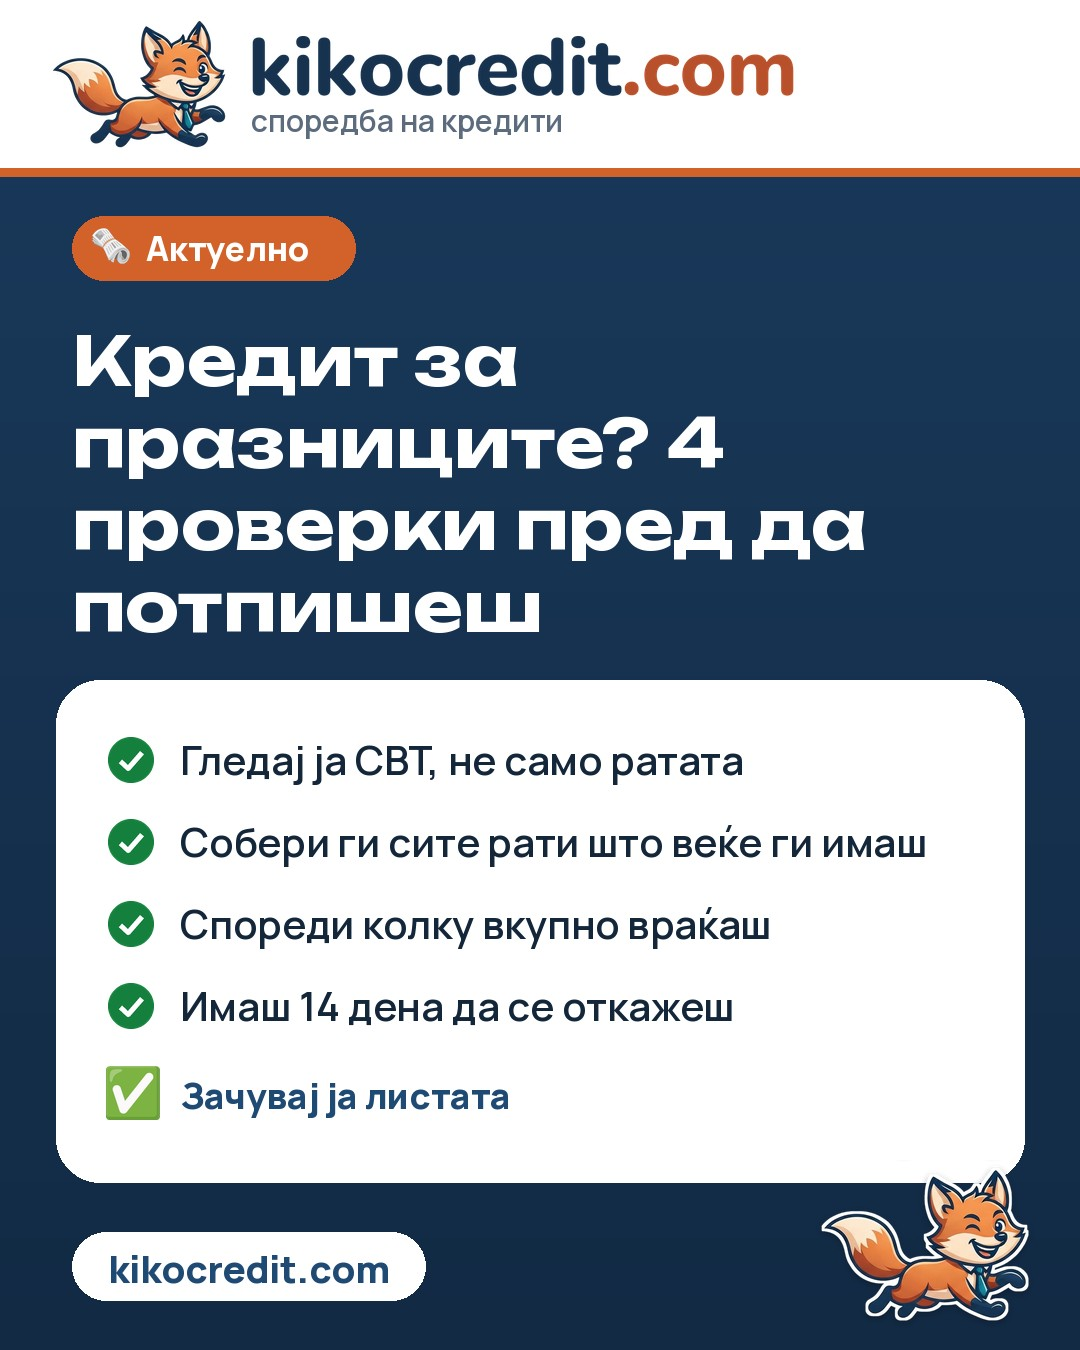
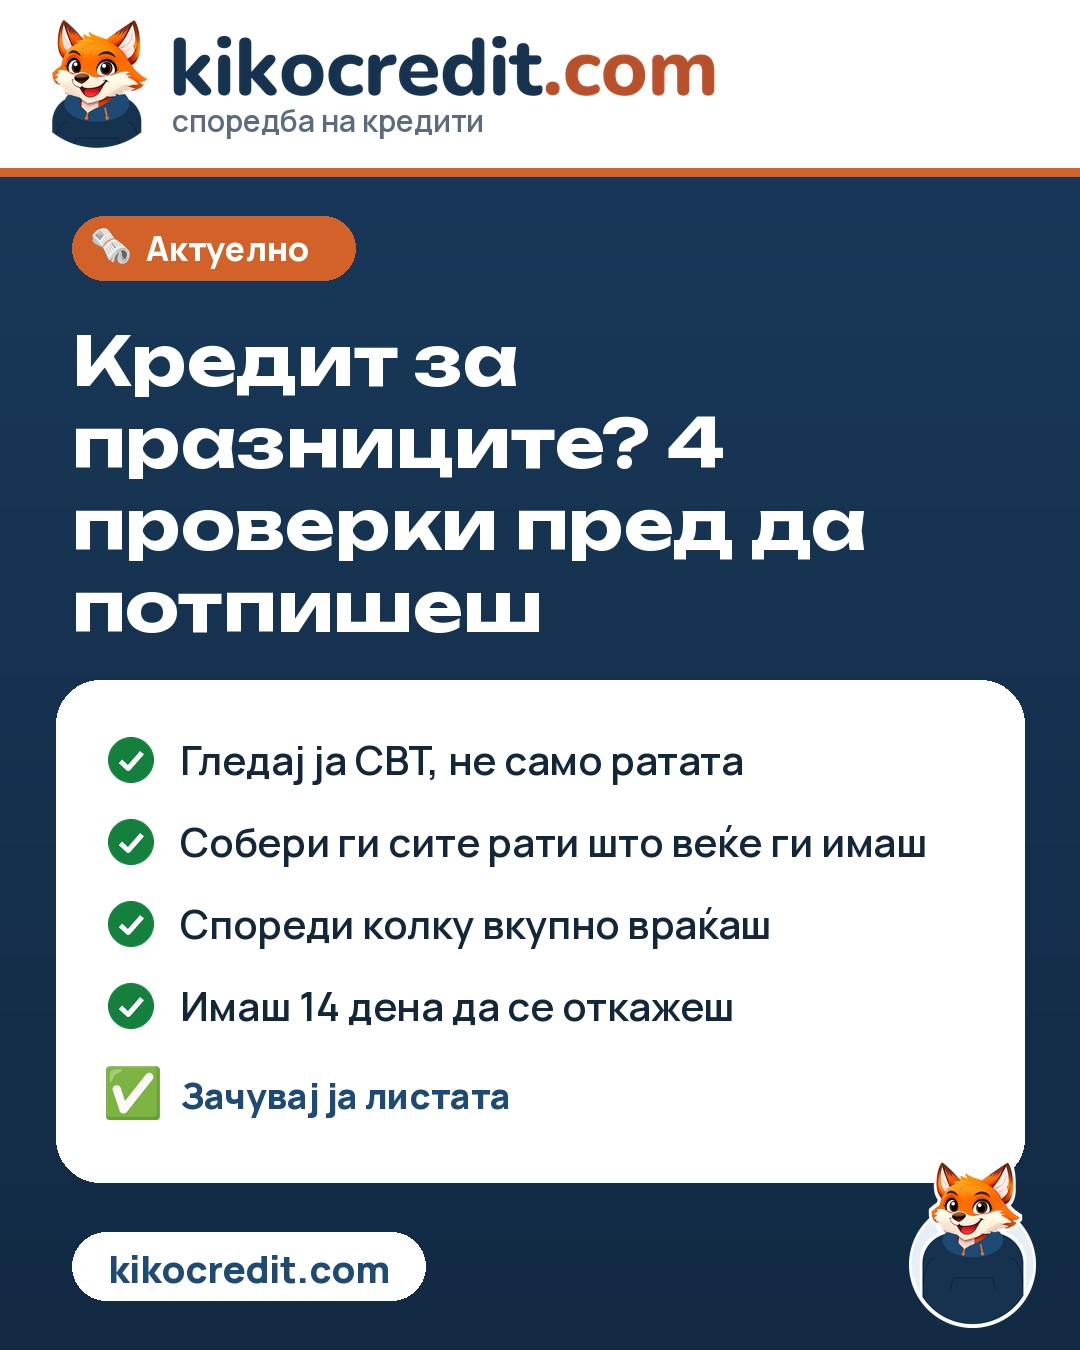
Нова маскота: Кико во тегет дуксер (слики за објави, профилна и cover)
Барање на Pece (25.11.2026): лисицата во дуксер, без буква на градите, ист изглед на
сајтот и на мрежите. Заменети tools/assets/kiko.png и kiko-sticker.png, додадени
kiko-avatar.png и kiko-head.png; нова алатка tools/make_brand_images.py (профилна 1080×1080
и Facebook cover 1640×720 во brand/). Двете необјавени објави (26.11 и 29.11) се прецртани
со истиот текст.

Claude-Session: https://claude.ai/code/session_01BRyZoi9Qj1x7wWqi3MHagk

Changed region(s): [[0.0306, 0.0, 0.7333, 0.1244], [0.7639, 0.84, 0.9778, 0.9956]]

diff --git a/tools/make_brand_images.py b/tools/make_brand_images.py
@@ -1,0 +1,122 @@
+"""Слики за профилите на KikoCredit (Facebook и Instagram) во изгледот на сајтот.
+
+  python3 tools/make_brand_images.py            # ги запишува во brand/
+
+- brand/kikocredit-profilna.png        1080×1080, профилна за Facebook и Instagram (се сече во круг)
+- brand/kikocredit-facebook-cover.png  1640×720, насловна за Facebook. Компјутер ја прикажува
+  средината 1640×624, телефон средината 1280×720 — сè важно е во средните 1280×624, а долниот
+  лев агол е празен затоа што таму стои профилната.
+- tools/assets/kiko-sticker.png        Кико во светол круг со бел раб — за темна позадина
+  (го користи make_guide_image.py долу десно на сликите за објави).
+Маскота: tools/assets/kiko-avatar.png (долг дуксер, за сечење во круг). Фонтови: tools/fonts.
+"""
+import os
+from PIL import Image, ImageDraw, ImageFilter, ImageFont
+
+HERE = os.path.dirname(os.path.abspath(__file__))
+FD, AS = os.path.join(HERE, 'fonts'), os.path.join(HERE, 'assets')
+OUT = os.path.join(os.path.dirname(HERE), 'brand')
+NAVY, NAVY2 = (0x1A, 0x3A, 0x5C), (0x12, 0x2A, 0x44)
+SOFT, BLUE, ORANGE, PALE = (0xE7, 0xEE, 0xF5), (0x1E, 0x4A, 0x73), (0xE0, 0x70, 0x2F), (0xC9, 0xD6, 0xE4)
+
+
+def font(name, size, weight):
+    f = ImageFont.truetype(os.path.join(FD, name), size)
+    f.set_variation_by_axes([weight])
+    return f
+
+
+def asset(name, height):
+    im = Image.open(os.path.join(AS, name)).convert('RGBA')
+    return im.resize((max(1, round(im.width * height / im.height)), height), Image.LANCZOS)
+
+
+def gradient(w, h):
+    im = Image.new('RGB', (w, h))
+    d = ImageDraw.Draw(im)
+    for y in range(h):
+        d.line([(0, y), (w, y)], fill=tuple(int(NAVY[i] + (NAVY2[i] - NAVY[i]) * y / h) for i in range(3)))
+    return im.convert('RGBA')
+
+
+def badge(d, fox_h, k=3):
+    """Кико во светол круг со пречник d и бел раб: дуксерот се сече по кругот, главата и ушите
+    излегуваат над него (со бел раб, за да стојат чисто на тегет)."""
+    D = d * k
+    rim = int(D * 0.022)
+    fox = asset('kiko-avatar.png', fox_h * k)
+    top = int(D * 0.36)                               # простор над кругот за ушите
+    W, H = D + 2 * rim, D + top + rim
+    box = (rim, top, rim + D - 1, top + D - 1)
+    fx, fy = (W - fox.width) // 2 + int(D * 0.004), int(D * 0.02)
+    layer = Image.new('RGBA', (W, H), (0, 0, 0, 0))
+    layer.alpha_composite(fox, (fx, fy))
+    # бел раб околу лисицата
+    edge = layer.split()[3].point(lambda v: 255 if v > 60 else 0)
+    for _ in range(3):
+        edge = edge.filter(ImageFilter.MaxFilter(2 * (rim // 3) + 1))
+    edge = edge.filter(ImageFilter.GaussianBlur(k * 1.5)).point(lambda v: 255 if v > 127 else 0).filter(ImageFilter.GaussianBlur(k * 0.6))
+    white = Image.new('RGBA', (W, H), (255, 255, 255, 0))
+    white.putalpha(edge)
+    white.alpha_composite(layer)
+    # под средината на кругот останува само она што е внатре во кругот
+    keep = Image.new('L', (W, H), 0)
+    kd = ImageDraw.Draw(keep)
+    kd.rectangle((0, 0, W, top + D // 2), fill=255)
+    kd.ellipse(box, fill=255)
+    white.putalpha(Image.composite(white.split()[3], Image.new('L', (W, H), 0), keep))
+    out = Image.new('RGBA', (W, H), (0, 0, 0, 0))
+    od = ImageDraw.Draw(out)
+    od.ellipse((0, top - rim, W - 1, top + D + rim - 1), fill=(255, 255, 255, 255))   # бел раб на кругот
+    od.ellipse(box, fill=SOFT + (255,))
+    out.alpha_composite(white)
+    # долната половина од белиот раб оди и преку дуксерот
+    ring = Image.new('RGBA', (W, H), (0, 0, 0, 0))
+    ImageDraw.Draw(ring).ellipse((rim // 2, top - rim // 2, W - 1 - rim // 2, top + D + rim // 2 - 1), outline=(255, 255, 255, 255), width=rim)
+    low = Image.new('L', (W, H), 0)
+    ImageDraw.Draw(low).rectangle((0, top + int(D * 0.62), W, H), fill=255)
+    ring.putalpha(Image.composite(ring.split()[3], Image.new('L', (W, H), 0), low))
+    out.alpha_composite(ring)
+    return out.resize((W // k, H // k), Image.LANCZOS)
+
+
+def profile(n=1080):
+    im = Image.new('RGBA', (n, n), SOFT + (255,))
+    fox = asset('kiko-avatar.png', int(n * 1.27))
+    im.alpha_composite(fox, ((n - fox.width) // 2 + 4, int(n * 0.115)))
+    return im.convert('RGB')
+
+
+def cover(w=1640, h=720):
+    im = gradient(w, h)
+    d = ImageDraw.Draw(im)
+    # тивки кругови во позадина
+    ov = Image.new('RGBA', (w, h), (0, 0, 0, 0))
+    od = ImageDraw.Draw(ov)
+    od.ellipse((1010, -260, 1900, 630), fill=BLUE + (70,))
+    od.ellipse((-320, 430, 260, 1010), fill=BLUE + (55,))
+    im.alpha_composite(ov)
+    # Кико десно, во средната зона
+    b = badge(400, 558)
+    im.alpha_composite(b, (1440 - b.width, 644 - b.height))
+    # текст лево
+    x = 196
+    wm = asset('wordmark-light.png', 64)
+    im.alpha_composite(wm, (x, 120))
+    d = ImageDraw.Draw(im)
+    d.rectangle((x + 2, 214, x + 92, 221), fill=ORANGE)
+    f = font('Unbounded[wght].ttf', 66, 700)
+    d.text((x, 250), 'Биди паметен', font=f, fill='white')
+    d.text((x, 332), 'како лисица.', font=f, fill='white')
+    g = font('Manrope[wght].ttf', 31, 600)
+    d.text((x + 2, 440), 'Спореди кредити од банки и финансиски друштва.', font=g, fill=PALE)
+    d.text((x + 2, 484), 'Независно и бесплатно.', font=g, fill=PALE)
+    return im.convert('RGB')
+
+
+if __name__ == '__main__':
+    os.makedirs(OUT, exist_ok=True)
+    profile().save(os.path.join(OUT, 'kikocredit-profilna.png'), optimize=True)
+    cover().save(os.path.join(OUT, 'kikocredit-facebook-cover.png'), optimize=True)
+    badge(700, 977, k=2).save(os.path.join(AS, 'kiko-sticker.png'), optimize=True)
+    print('saved', OUT)

diff --git a/README.md b/README.md
@@ -46,15 +46,24 @@
 редовни објави вт/чт/нед во 18:57). Секоја дополнителна или поместена објава се закажува така
 што до претходната и до следната има најмалку 6 часа; ако за тој ден нема место, оди на друг ден.
 
-## Изглед на сликите (од 22.11.2026)
-Сликите за Facebook и Instagram се во истиот изглед како сајтот: маскотата Кико (лисица што
-трча) и името `kikocredit.com` на бела лента горе, тегет позадина, портокалова ознака, бела
-картичка со точките и Кико долу десно.
+## Изглед на сликите (од 22.11.2026; нова маскота од 25.11.2026)
+Сликите за Facebook и Instagram се во истиот изглед како сајтот: маскотата Кико (лисица во
+тегет дуксер; до 25.11.2026 беше лисица што трча) и името `kikocredit.com` на бела лента горе,
+тегет позадина, портокалова ознака, бела картичка со точките и Кико долу десно.
 - Се прават со `tools/make_guide_image.py` (истите параметри како досега).
-- Лого-фајлови: `tools/assets/kiko.png` (маскотата, за светла позадина),
-  `tools/assets/kiko-sticker.png` (со бел раб, за темна позадина), `tools/assets/wordmark.png`
-  (името; `wordmark-light.png` за темна позадина). Маскотата не се црта на темна позадина без
-  белиот раб — контурата ѝ е тегет.
+- Лого-фајлови во `tools/assets/`: `kiko.png` (биста, за светла позадина), `kiko-sticker.png`
+  (Кико во круг со бел раб, за темна позадина), `kiko-avatar.png` (долг дуксер, за сечење во
+  круг), `kiko-head.png` (само главата, за икони), `wordmark.png` (името; `wordmark-light.png`
+  за темна позадина). Маскотата не се црта на темна позадина без белиот раб — дуксерот е тегет.
+- Главата на маскотата е од слика избрана од Pece (25.11.2026); дуксерот е доцртан во боите на
+  сајтот, без буква на градите (барање на Pece). Целна публика: млади.
 - Боите се исти како `BRAND` во `src/brand.js` на гранката `main`.
 - `make_posts.py` и `make_alta.py` се стари серии во виолетовиот изглед; не се користат за нови објави.
 
+
+
+## Профилни слики (25.11.2026)
+`tools/make_brand_images.py` ги прави `brand/kikocredit-profilna.png` (1080×1080, иста за
+Facebook и Instagram) и `brand/kikocredit-facebook-cover.png` (1640×720; сè важно е во средните
+1280×624, долниот лев агол е празен заради профилната) и `tools/assets/kiko-sticker.png`.
+Профилните и насловната на Facebook и Instagram ги поставува Pece.
